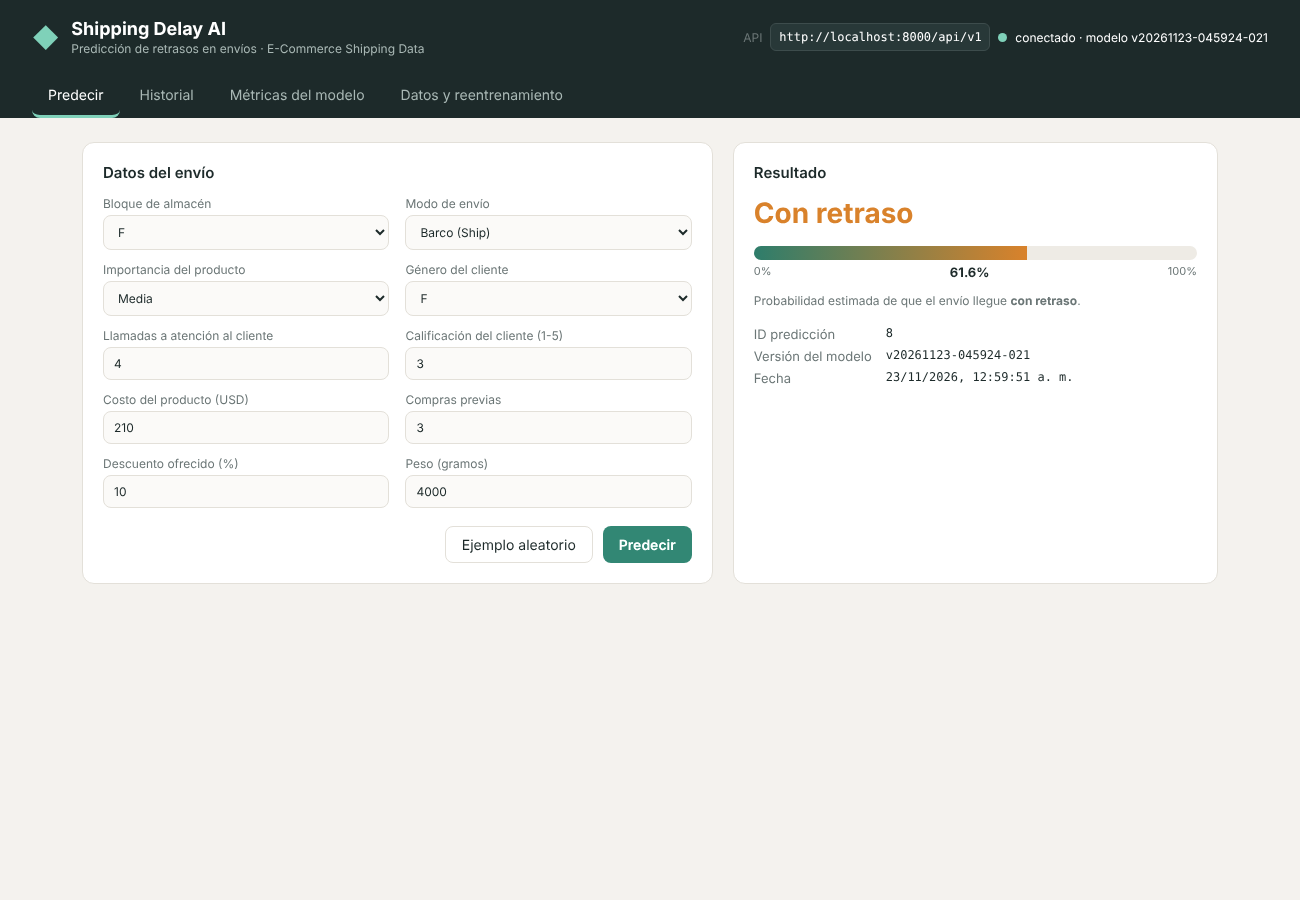
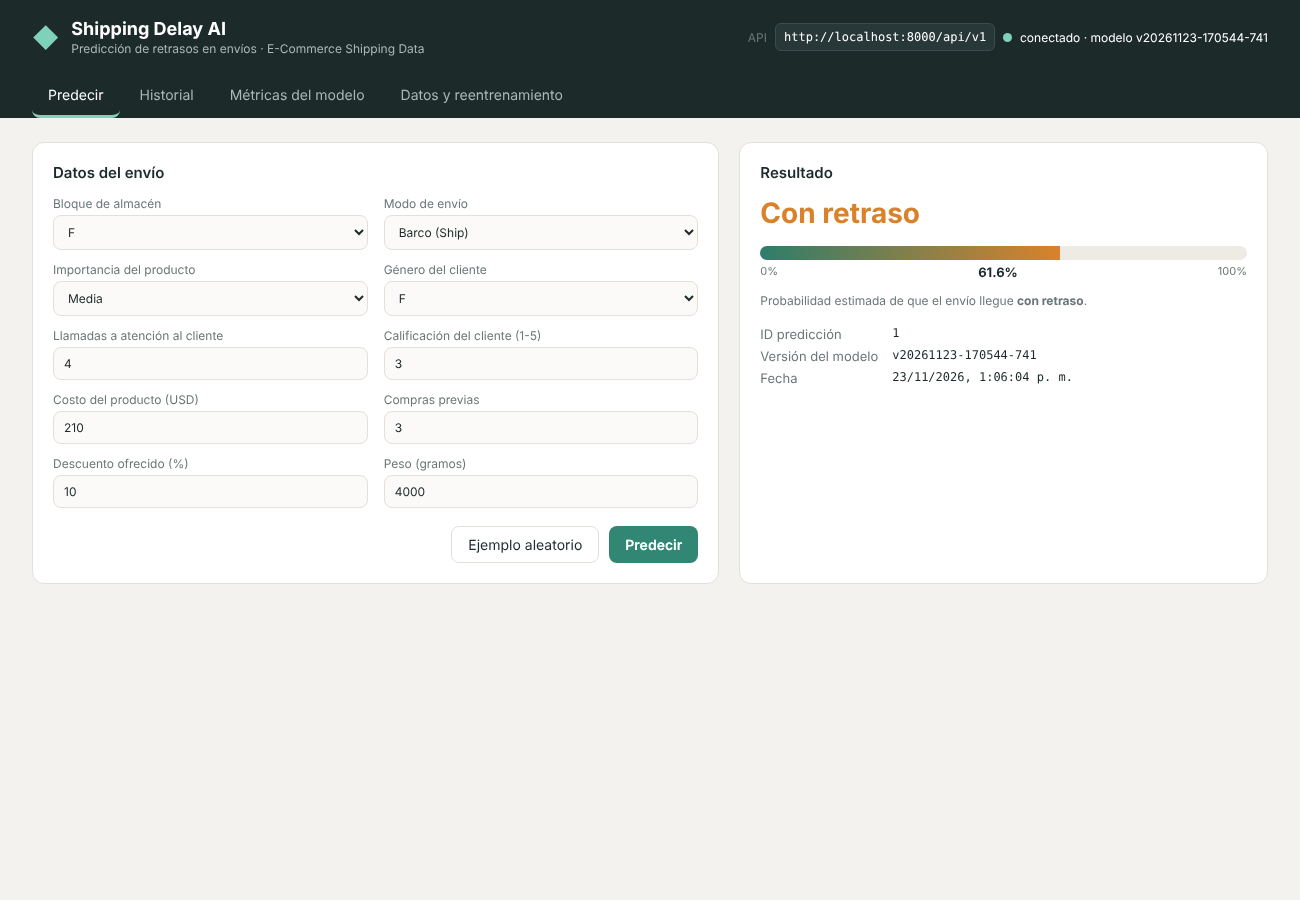
feat(ui): detalle de predicción y filtro por versión en el historial
- El cliente web ahora consume los 8 endpoints de la API:
  GET /predictions/{id} (clic en una fila) y filtro model_version (opciones desde GET /models)
- Prueba con predicciones de dos versiones (nitpick de CodeRabbit en PR #1)
- Evidencia de la revisión de IA en docs/evidencia_revision_ia/
- Capturas de pantalla actualizadas

Claude-Session: https://claude.ai/code/session_01WiA6HKDh5mPVCdvfBkjE7G

diff --git a/frontend/app.js b/frontend/app.js
@@ -90,11 +90,14 @@ $("#randomBtn").addEventListener("click", () => {
 // ---------------------------------------------------------------- historial  (GET /predictions)
 async function loadHistory() {
   const filter = $("#histFilter").value;
-  const q = `?limit=${PAGE}&offset=${histOffset}${filter !== "" ? `&predicted_class=${filter}` : ""}`;
+  const version = $("#histVersion").value;
+  const q = `?limit=${PAGE}&offset=${histOffset}${filter !== "" ? `&predicted_class=${filter}` : ""}` +
+    (version ? `&model_version=${encodeURIComponent(version)}` : "");
   try {
+    await loadVersionOptions();
     const h = await api(`/predictions${q}`);
     const tb = $("#histTable tbody");
-    tb.innerHTML = h.items.length ? h.items.map((p) => `<tr>
+    tb.innerHTML = h.items.length ? h.items.map((p) => `<tr data-id="${p.id}">
       <td>${p.id}</td><td>${fmtDate(p.created_at)}</td><td>${p.warehouse_block}</td><td>${p.mode_of_shipment}</td>
       <td class="num">${p.customer_care_calls}</td><td class="num">${p.customer_rating}</td>
       <td class="num">${p.cost_of_the_product}</td><td class="num">${p.prior_purchases}</td>
@@ -108,6 +111,44 @@ async function loadHistory() {
     $("#nextPage").disabled = histOffset + PAGE >= h.total;
   } catch (err) { toast(`Error: ${err.message}`, true); }
 }
+// Opciones del filtro de versión  (GET /models)
+async function loadVersionOptions() {
+  const sel = $("#histVersion"), current = sel.value;
+  const all = await api("/models");
+  sel.innerHTML = `<option value="">Todas las versiones</option>` +
+    all.map((m) => `<option value="${esc(m.version)}">${esc(m.version)} · ${esc(m.status)}</option>`).join("");
+  sel.value = current;
+}
+
+// Detalle de una predicción  (GET /predictions/{id})
+async function showDetail(id) {
+  try {
+    const p = await api(`/predictions/${id}`);
+    document.querySelectorAll("#histTable tbody tr").forEach((tr) => tr.classList.toggle("selected", tr.dataset.id === String(id)));
+    $("#detailTitle").textContent = `Detalle de la predicción #${p.id}`;
+    const rows = [
+      ["Resultado", labelPill(p.predicted_class, p.predicted_label)],
+      ["Probabilidad de retraso", pct(p.probability_delay)],
+      ["Versión del modelo", `<code>${esc(p.model_version)}</code>`],
+      ["Fecha", fmtDate(p.created_at)],
+      ["Bloque de almacén", esc(p.warehouse_block)], ["Modo de envío", esc(p.mode_of_shipment)],
+      ["Llamadas a atención", p.customer_care_calls], ["Calificación del cliente", p.customer_rating],
+      ["Costo del producto (USD)", p.cost_of_the_product], ["Compras previas", p.prior_purchases],
+      ["Importancia del producto", esc(p.product_importance)], ["Género", esc(p.gender)],
+      ["Descuento ofrecido (%)", p.discount_offered], ["Peso (g)", p.weight_in_gms],
+    ];
+    $("#detailBody").innerHTML = rows.map(([k, v]) => `<dt>${k}</dt><dd>${v}</dd>`).join("");
+    $("#detailCard").hidden = false;
+    $("#detailCard").scrollIntoView({ behavior: "smooth", block: "nearest" });
+  } catch (err) { toast(`Error: ${err.message}`, true); }
+}
+$("#histTable tbody").addEventListener("click", (e) => {
+  const tr = e.target.closest("tr[data-id]");
+  if (tr) showDetail(tr.dataset.id);
+});
+$("#detailClose").addEventListener("click", () => { $("#detailCard").hidden = true; });
+$("#histVersion").addEventListener("change", () => { histOffset = 0; loadHistory(); });
+
 $("#histRefresh").addEventListener("click", loadHistory);
 $("#histFilter").addEventListener("change", () => { histOffset = 0; loadHistory(); });
 $("#prevPage").addEventListener("click", () => { histOffset = Math.max(0, histOffset - PAGE); loadHistory(); });

diff --git a/frontend/index.html b/frontend/index.html
@@ -98,8 +98,11 @@
         <div class="card-head">
           <h2>Historial de predicciones</h2>
           <div class="inline">
-            <select id="histFilter">
-              <option value="">Todas</option><option value="0">A tiempo</option><option value="1">Con retraso</option>
+            <select id="histFilter" aria-label="Filtrar por resultado">
+              <option value="">Todos los resultados</option><option value="0">A tiempo</option><option value="1">Con retraso</option>
+            </select>
+            <select id="histVersion" aria-label="Filtrar por versión del modelo">
+              <option value="">Todas las versiones</option>
             </select>
             <button class="ghost" id="histRefresh">Actualizar</button>
           </div>
@@ -114,11 +117,19 @@
             <tbody></tbody>
           </table>
         </div>
+        <p class="muted">Haz clic en una fila para ver el detalle de la predicción.</p>
         <div class="pager">
           <button class="ghost" id="prevPage">← Anterior</button>
           <span id="pageInfo"></span>
           <button class="ghost" id="nextPage">Siguiente →</button>
         </div>
+      </div>
+      <div class="card" id="detailCard" hidden>
+        <div class="card-head">
+          <h2 id="detailTitle">Detalle de la predicción</h2>
+          <button class="ghost" id="detailClose">Cerrar</button>
+        </div>
+        <dl class="kv" id="detailBody"></dl>
       </div>
     </section>
 

diff --git a/frontend/styles.css b/frontend/styles.css
@@ -107,3 +107,7 @@ td.num, th.num { text-align: right; font-variant-numeric: tabular-nums; }
 .toast { position: fixed; bottom: 20px; right: 20px; background: var(--ink); color: #fff; padding: 12px 16px;
   border-radius: 8px; font-size: 13px; max-width: 360px; box-shadow: 0 6px 20px rgba(0,0,0,.2); }
 .toast.err { background: var(--bad); }
+
+#histTable tbody tr[data-id] { cursor: pointer; }
+#histTable tbody tr[data-id]:hover { background: #f6f4ef; }
+#histTable tbody tr.selected { background: #e7f2ee; }

diff --git a/backend/tests/test_api.py b/backend/tests/test_api.py
@@ -75,3 +75,22 @@ def test_upload_and_retrain(client):
     assert r.status_code == 200
     assert r.json()["status"] in ("COMPLETADO", "RECHAZADO")
     assert len(client.get(f"{API}/models").json()) >= 2
+
+
+def test_filter_excludes_other_versions(client):
+    """Con predicciones de dos versiones, el filtro devuelve solo las de la versión pedida."""
+    before = client.post(f"{API}/predictions", json=SAMPLE).json()["model_version"]
+    # Reentrenar con el dataset base y un algoritmo que supera la compuerta -> nueva versión activa
+    r = client.post(f"{API}/retrain", json={"dataset_id": 1, "algorithm": "GradientBoosting"}).json()
+    assert r["status"] == "COMPLETADO"
+    after = client.post(f"{API}/predictions", json=SAMPLE).json()["model_version"]
+    assert after != before
+    versions = [m["version"] for m in client.get(f"{API}/models").json()]
+    totals = {}
+    for v in versions:
+        h = client.get(f"{API}/predictions", params={"model_version": v, "limit": 500}).json()
+        assert all(p["model_version"] == v for p in h["items"])
+        assert h["total"] == len(h["items"])
+        totals[v] = h["total"]
+    assert sum(totals.values()) == client.get(f"{API}/predictions").json()["total"]
+    assert sum(1 for t in totals.values() if t > 0) >= 2

diff --git a/README.md b/README.md
@@ -34,7 +34,8 @@ backend/
   data/           Train.csv (dataset) · ejemplo_dataset_actualizado.csv (para probar reentrenamiento)
   tests/          pruebas de integración de la API
 frontend/         cliente web (index.html, app.js, styles.css)
-docs/             openapi.yaml/json · swagger.html · diagrama_bd.png/.mmd · cronograma_gantt.png
+docs/             evidencia_revision_ia/ (capturas del PR revisado por CodeRabbit)
+                  openapi.yaml/json · swagger.html · diagrama_bd.png/.mmd · cronograma_gantt.png
                   crisp_ml/ (figuras y reportes del entrenamiento) · capturas/
 ```
 
@@ -57,7 +58,7 @@ Para usar PostgreSQL: `export DATABASE_URL=postgresql+psycopg2://usuario:clave@l
 | Método | Ruta | Requisito |
 |---|---|---|
 | POST | `/predictions` | a) Enviar datos y obtener la predicción |
-| GET | `/predictions` · `/predictions/{id}` | b) Historial de predicciones (datos + resultado) |
+| GET | `/predictions` · `/predictions/{id}` | b) Historial de predicciones (datos + resultado); filtros `predicted_class` y `model_version` |
 | GET | `/metrics` · `/models` | c) Métricas del modelo activo y de todas las versiones |
 | POST | `/retrain` | d) Reentrenar con información actualizada |
 | POST | `/datasets` · GET `/datasets` | e) Enviar el archivo de entrenamiento |

diff --git a/docs/evidencia_revision_ia/README.md b/docs/evidencia_revision_ia/README.md
@@ -1,0 +1,12 @@
+# Evidencia de revisión de PR con IA (CodeRabbit)
+
+PR revisado: https://github.com/adrim04/shipping-delay-ai/pull/1
+
+| Captura | Qué muestra |
+|---|---|
+| 01_resumen_revision_coderabbit.png | Revisión automática: 1 comentario accionable + observación fuera del diff (documentar el 404 en Swagger) |
+| 02_nitpick_pruebas.png | Sugerencia menor sobre la prueba del filtro |
+| 03_prompt_correcciones.png | Resumen de todas las correcciones propuestas |
+| 04_configuracion_revision.png | La revisión usó `.coderabbit.yaml` del repositorio |
+| 05_comentario_resuelto_main_py.png | Comentario en `main.py`, marcado *Addressed in commit d311b1a*, con la respuesta |
+| 06_checks_en_verde.png | CI (pytest + ruff) y CodeRabbit en verde antes del merge |
